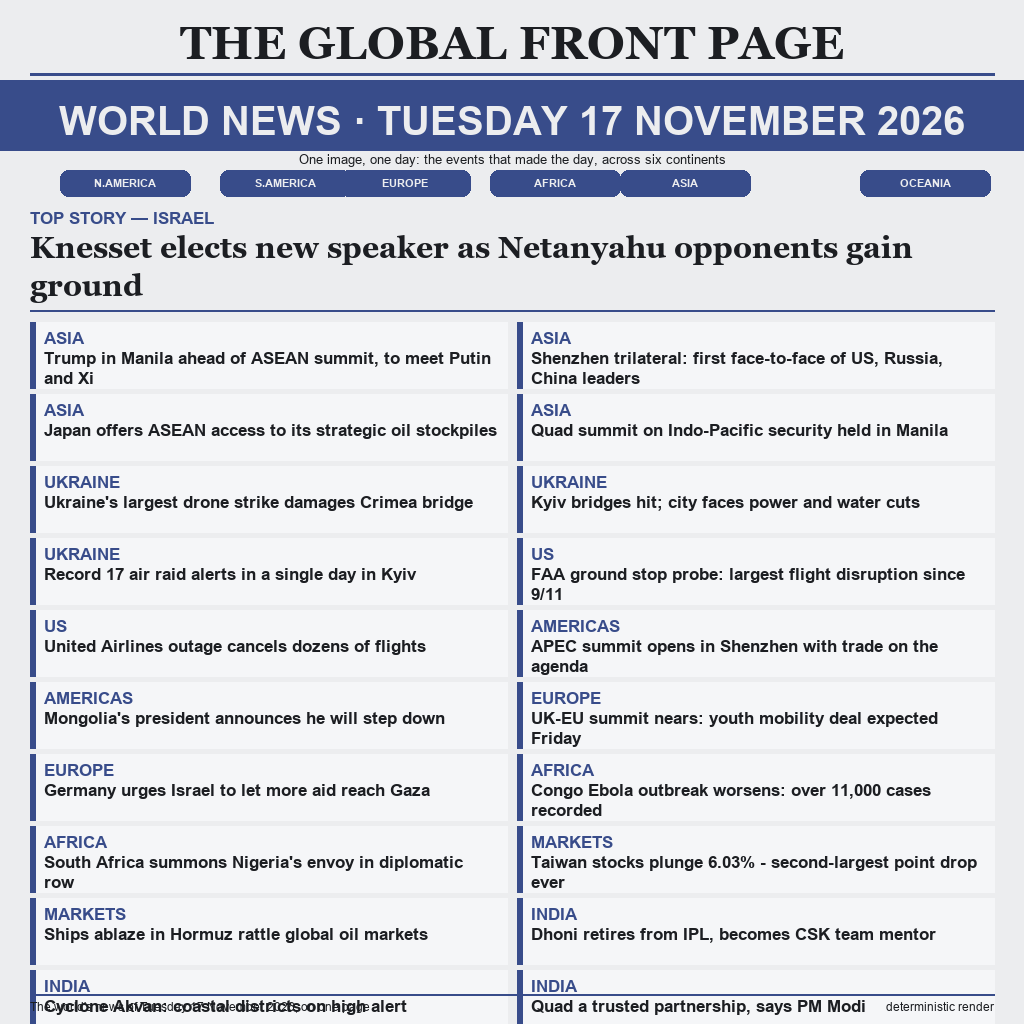
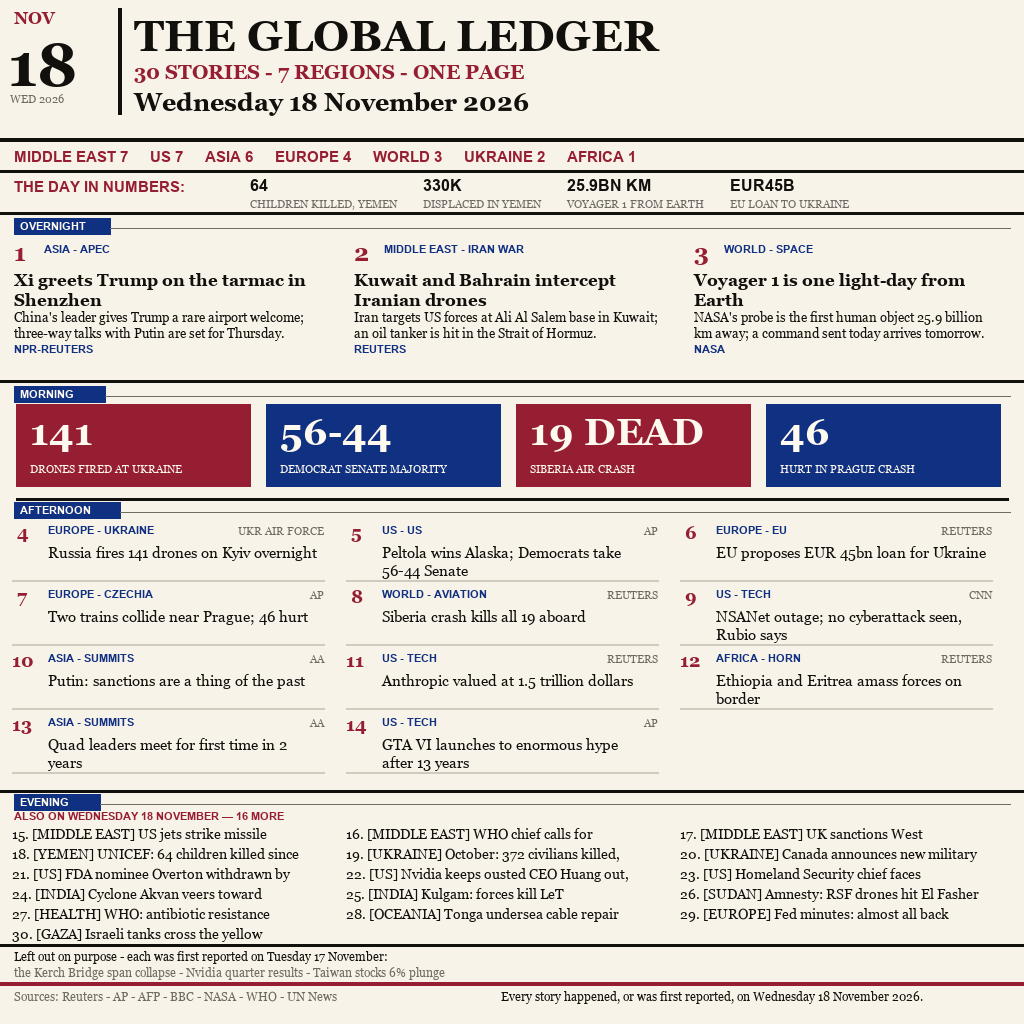
v14 broadsheet entry for news-image-20261118

diff --git a/main.ts b/main.ts
@@ -1,12 +1,12 @@
 /**
  * newsday-atlas — entrypoint for the make.fun news-image contest
- * (news-image-20261117).
+ * (news-image-20261118).
  *
  * What it does:
- *   Copies this repository's `entry.png` — a front-page style poster of the
- *   world's news of Tuesday 17 November 2026 — into the contest output
- *   directory as `entry.png`. That is the whole program: one static,
- *   dependency-free copy.
+ *   Copies this repository's `entry.png` — a front-page style broadsheet of the
+ *   world's news of Wednesday 18 November 2026 (30 stories, 7 regions, day-in-numbers
+ *   strip) — into the contest output directory as `entry.png`. That is the whole
+ *   program: one static, dependency-free copy.
  *
  * Where it writes:
  *   Inside the grading container the artifact must land at the fixed path
